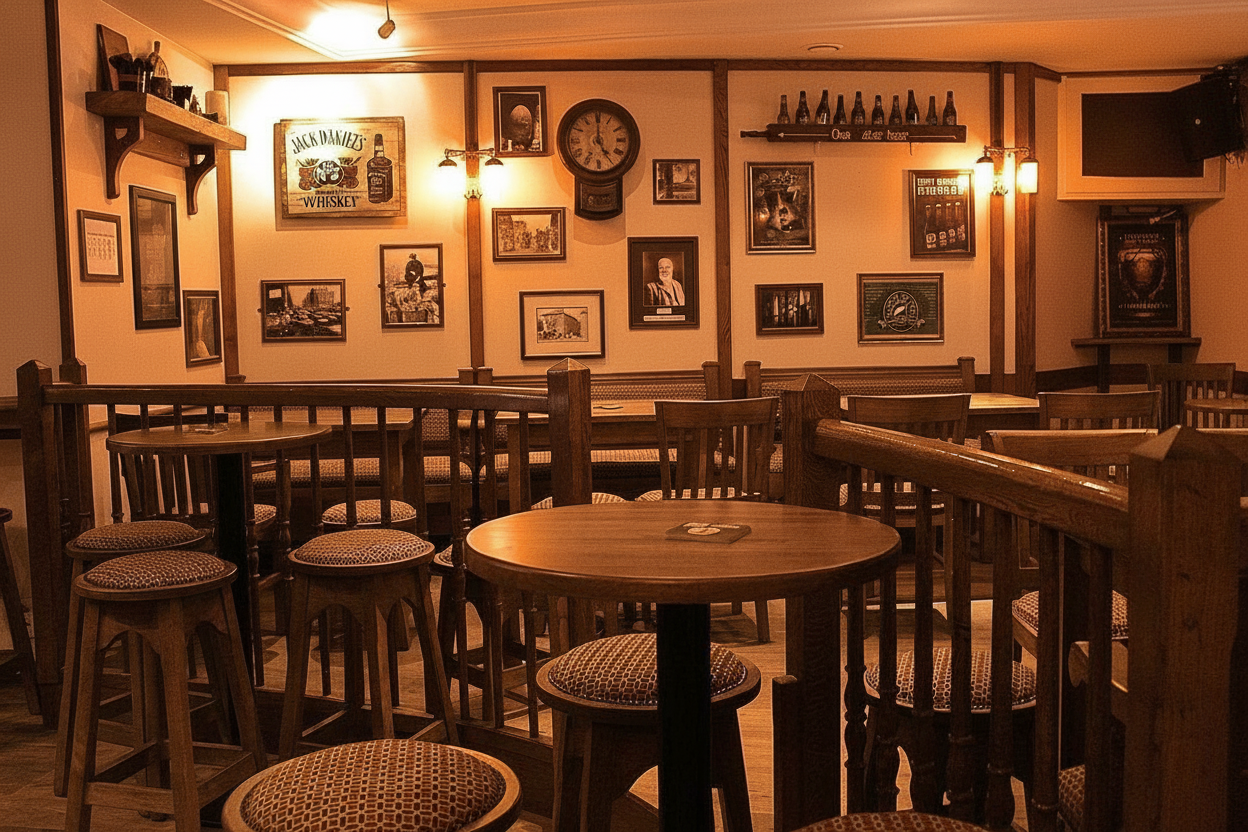
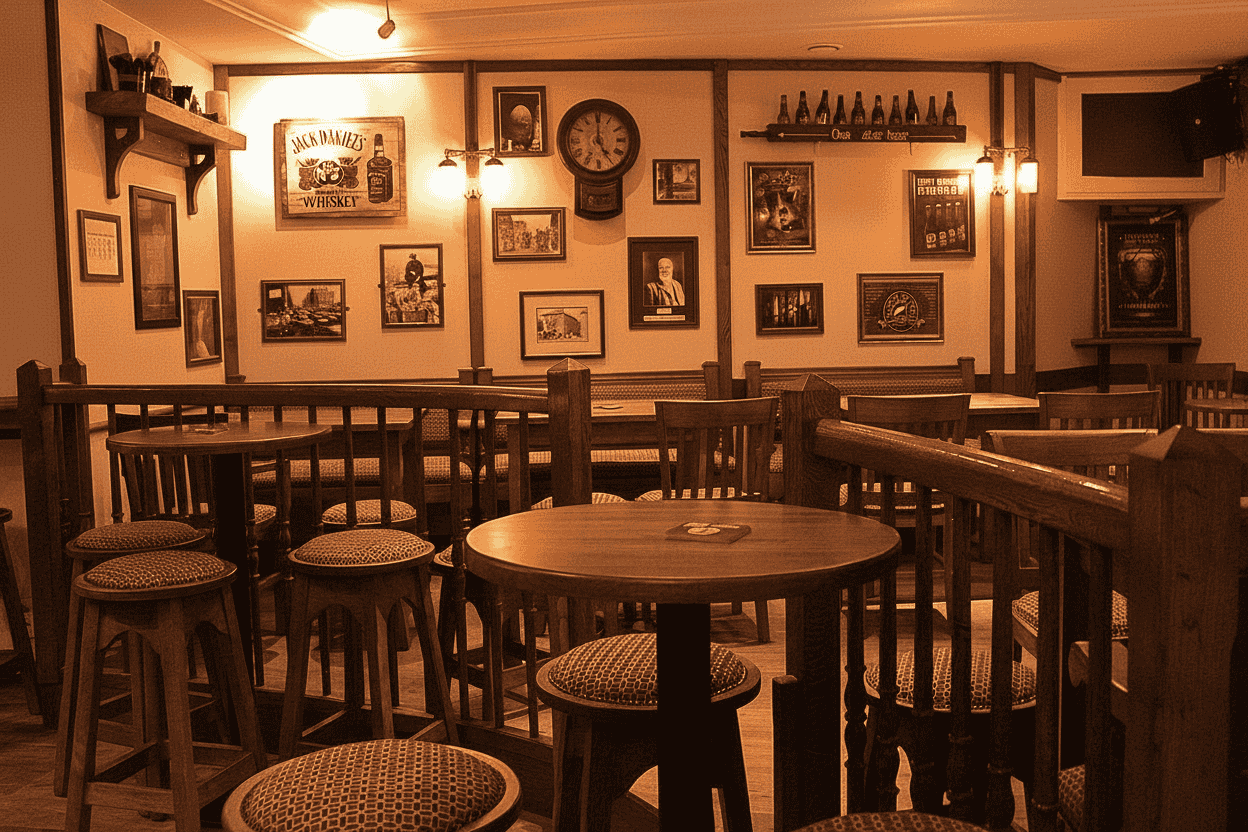
Compressed photos for faster loading, deleted unused images and svgs

diff --git a/src/components/Hero.jsx b/src/components/Hero.jsx
@@ -3,6 +3,7 @@ import Navbar from './Navbar.jsx'
 import { useTranslation } from 'react-i18next'
 import { scrollToSection } from '../utils/scrollToSection'
 import { motion } from "motion/react"
+import { ChevronDown } from 'lucide-react'
 
 function Hero({ isMobile }) {
   const { t } = useTranslation()
@@ -39,18 +40,17 @@ function Hero({ isMobile }) {
             <motion.div
                     initial={{ opacity: 0}}
                     animate={{ opacity: 1}}
-                    transition={{ duration: 4, ease: "easeOut" }}
+                    transition={{ duration: 3, ease: "easeOut" }}
              className='flex flex-col md:flex-row gap-4 w-full px-4 lg:px-[10%] max-w-[800px]'>
                 <button onClick={() => scrollToSection('menu')} className='flex-1 bg-[#e89c30] text-[#181312] rounded-lg p-2 py-3 font-[Inter] hover:bg-[#d48312] transition-all duration-200 font-semibold cursor-pointer'>{t("heroDiscoverMenu")}</button>
                 <button onClick={() => scrollToSection('find')} className='flex-1 bg-[#181312] text-[#e89c30] rounded-lg p-2 py-3 font-[Inter] border border-[#e89c30] hover:bg-[#e89c30] hover:text-[#181312] transition-all duration-200 font-semibold cursor-pointer'>{t("navFind")}</button>
             </motion.div>
-
-
+        </div>
+        <div className="absolute bottom-2 flex flex-row justify-center w-full">
+            <ChevronDown onClick={() => scrollToSection('about')} size={64} strokeWidth={1.2} className='animate-bounce cursor-pointer text-[#e89c30]'/>
         </div>
 
-        <div className="absolute bottom-6 left-1/2 transform -translate-x-1/2">
-            <img src="assets/arrow-down.svg" onClick={() => scrollToSection('about')} className='w-8 animate-bounce cursor-pointer'/>
-        </div>
+
 
     </section>
 
